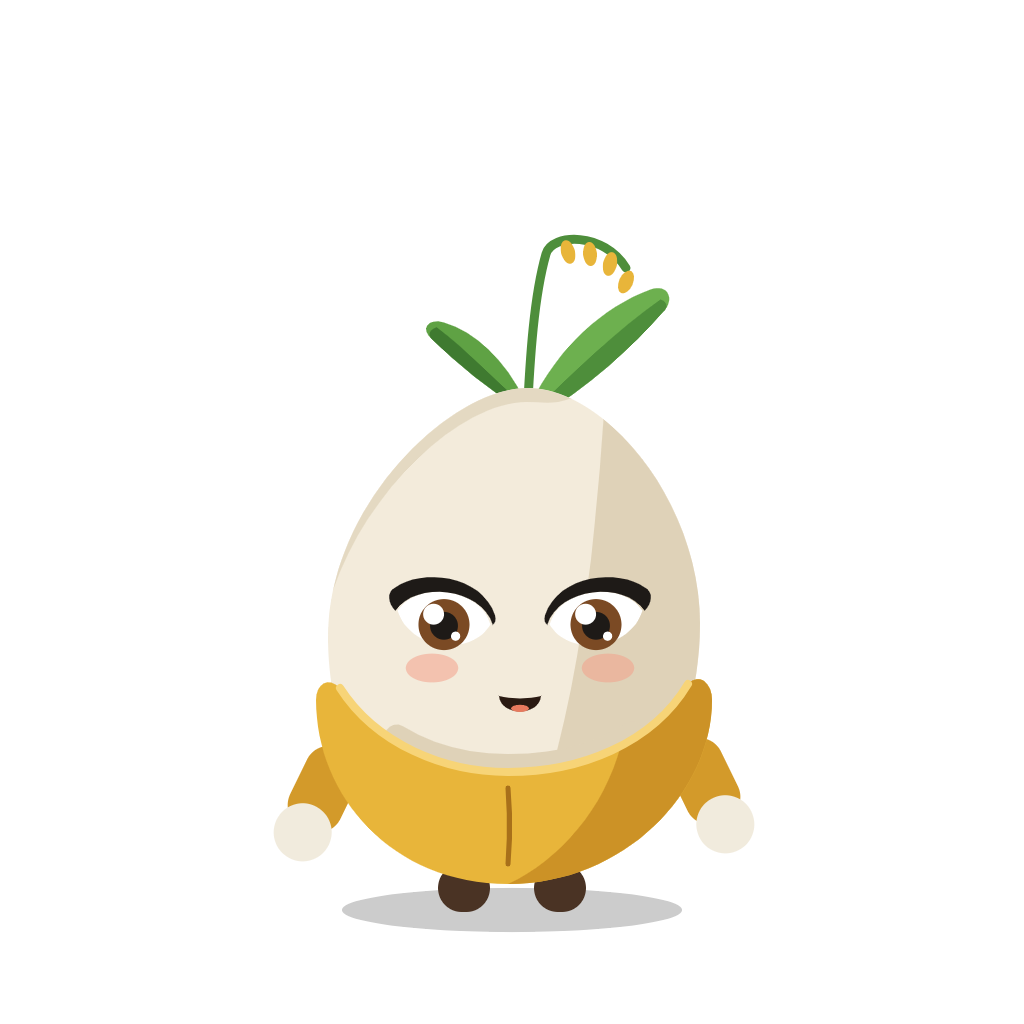
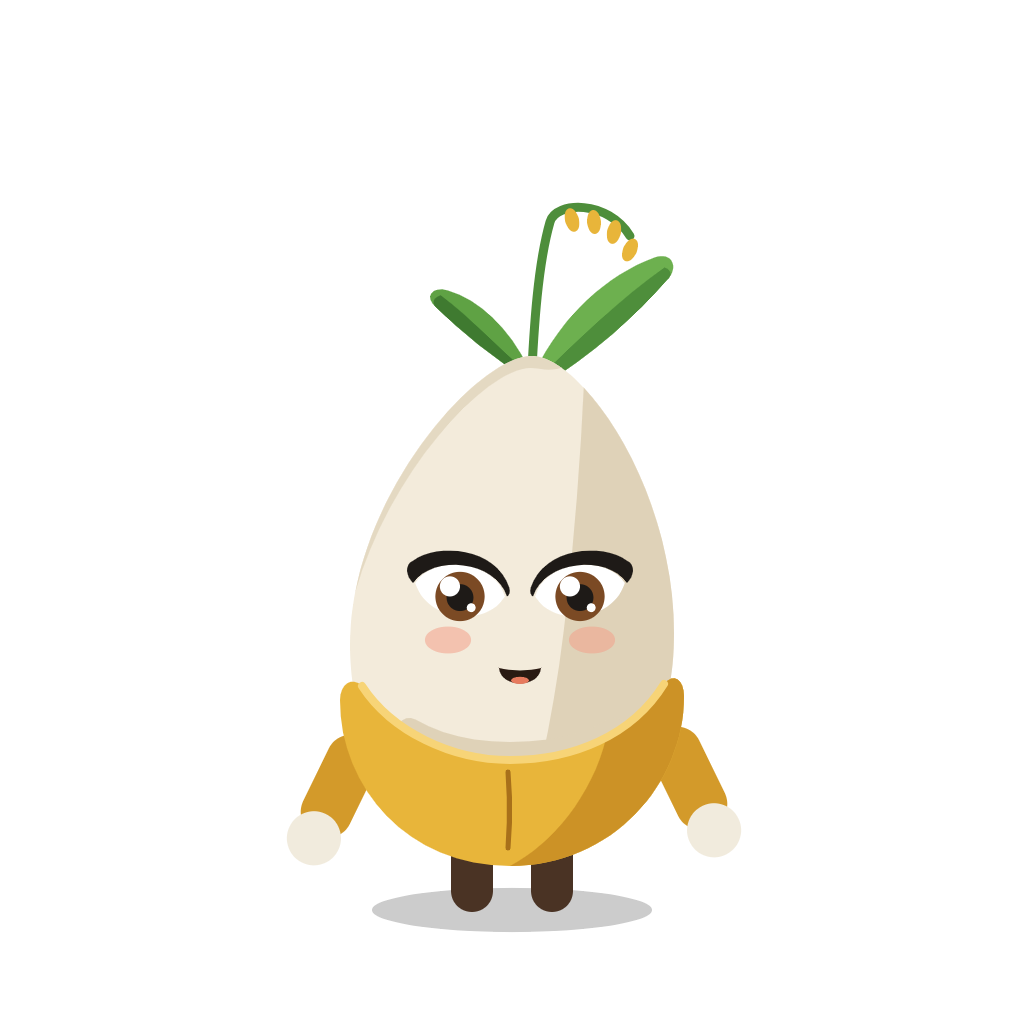
feat(mascot): Hom Thong v5 — slimmer, tapered grain silhouette
Grain ratio 1.30 -> 1.54:1 with a clearer taper to the tip, narrower husk
torso, longer slimmer legs and arms (wave/success lift above the shoulder).
Face layout rescaled for the narrower head; smooth edges and flat style
kept. Runtime API unchanged; full state machine sim passes.

Changed region(s): [[0.25, 0.1875, 0.75, 0.9062], [0.5938, 0.875, 0.6875, 0.9062], [0.3125, 0.875, 0.4062, 0.9062]]

diff --git a/handoff/mascot-homthong.md b/handoff/mascot-homthong.md
@@ -3,14 +3,15 @@
 ตัวการ์ตูนเมล็ดข้าวหอมมะลิของ AMC — สหกรณ์การเกษตรเพื่อการตลาดลูกค้า ธ.ก.ส. สุรินทร์
 ใช้ในแอป HR: onboarding, empty state, loading, success
 
-**Concept:** หัว/ตัวคือเมล็ดข้าวสารสีงาช้างทรงอวบ สวม "เปลือกข้าวสีทอง" เป็นเสื้อตัวสั้น
+**Concept:** หัว/ตัวคือเมล็ดข้าวสารสีงาช้างทรงเรียว สวม "เปลือกข้าวสีทอง" เป็นเสื้อตัวสั้น
 บนหัวมีใบข้าว 2 ใบ + รวงเล็ก บุคลิกใจดี ขยัน
 
-**สไตล์ v4 (modern flat, chibi):** ทำตาม skill `rive-modern-flat-character` (`~/.claude/skills/rive-modern-flat-character/`)
-- **สัดส่วน:** เมล็ดสูง:กว้าง ≈ 1.30:1 (242×186) ยอดแหลมนิด ๆ เอียงเล็กน้อย หัวเป็นก้อนใหญ่ เสื้อเปลือกคลุมแค่ ~1/4 ล่าง
-  แขนสั้นปลายมือกลม ขาเป็นปุ่มเล็ก
-- **หน้า:** ตาอยู่กลางส่วนขาว ใหญ่ขึ้น ห่างกันขึ้น ประกายใหญ่ 1 + เล็ก 1 (ซ้ายบนเหมือนกันทั้งสองข้าง)
+**สไตล์ v5 (modern flat, chibi เรียว):** ทำตาม skill `rive-modern-flat-character` (`~/.claude/skills/rive-modern-flat-character/`)
+- **สัดส่วน:** เมล็ดสูง:กว้าง ≈ 1.54:1 (250×162) เรียวสอบขึ้นไปทางยอดแบบเมล็ดข้าว (อยู่ระหว่าง v3 ที่ยาวแคบไปกับ v4 ที่กลมไป)
+  เสื้อเปลือกช่วงลำตัวแคบลงตามทรง ขาเรียวยาวขึ้น แขนยาวขึ้นแต่ยังปลายมน
+- **หน้า:** ย่อ layout ให้พอดีหัวที่แคบลง ตาโต ห่างกัน อยู่ใกล้กลางส่วนขาว ไม่ชิดขอบ ประกายใหญ่ 1 + เล็ก 1
   ขนตาเป็นลิ่มมน ปากยิ้มเล็ก แก้มเป็นวงรีอยู่ใต้ตา
+- **ท่า:** แขนยาวขึ้นแล้ว `wave` กับ `success` เลยยกมือได้สูงกว่าไหล่
 - **ไม่มีรอยหยัก:** ขอบเปลือกเป็นโค้ง U นุ่มเส้นเดียว มุมเปลือกเป็นมุมมนทั้งหมด ใบข้าวปลายมน
   เส้นในเปลือกเหลือแค่ตะเข็บกลางเส้นเดียว
 - **ไม่มีเส้นขอบ:** ใช้ flat fill ทุกชิ้น ไม่มี gradient, เงา cel ขอบแข็งชิ้นเดียวต่อก้อน (ระนาบขวาบนหัว, ก้อนขวาล่างบนเปลือก, ใบสองโทน)
@@ -20,13 +21,13 @@
   เมล็ดในรวงแกว่งเบา ๆ เป็น follow-through (group `Panicle`)
 - **Accent:** ประกาย 2 ดวงใน `success`, เครื่องหมาย "?" สีทองใน `search` (ตัวเอียงซ้าย-ขวา 6° พร้อมมองซ้าย-ขวา มือแตะแก้ม)
 
-API ของ runtime เหมือน v1–v3 ทุกอย่าง (artboard / state machine / view model / ชื่อ animation) โค้ดฝั่งแอปไม่ต้องแก้
+API ของ runtime เหมือน v1–v4 ทุกอย่าง (artboard / state machine / view model / ชื่อ animation) โค้ดฝั่งแอปไม่ต้องแก้
 
 ## ไฟล์
 
 | ไฟล์ | ใช้ทำอะไร |
 |---|---|
-| `public/mascot/homthong.riv` | runtime file (11.4 KB, export จากบัญชี Rive Pro ไม่มี splash/ลายน้ำ) |
+| `public/mascot/homthong.riv` | runtime file (11.0 KB, export จากบัญชี Rive Pro ไม่มี splash/ลายน้ำ) |
 | `public/mascot/homthong.png` | fallback ภาพนิ่งท่า idle, 1024×1024, พื้นใส |
 | `public/mascot/homthong.svg` | fallback แบบเวกเตอร์ท่า idle (สร้างจาก geometry เดียวกัน), viewBox 512×512 |
 
@@ -157,7 +158,7 @@ export default function HomThong({ mood = 0, size = 160, className = "" }) {
 ## ข้อจำกัด / สิ่งที่ต้องตัดสินใจ
 
 1. **Splash "RIVE" แก้แล้ว**: v1 ที่ export จาก plan ฟรีมีจอดำโลโก้ RIVE ~3 วินาที
-   v2–v4 export จากบัญชี Pro แล้วทดสอบใน browser (`@rive-app/webgl2@2.44.2`) ตัวละครขึ้นตั้งแต่เฟรมแรก ไม่มี splash/ลายน้ำ
-2. แขนสั้นแบบ chibi และอยู่หลังเสื้อเปลือก เลยยกได้แค่ระดับไหล่ ท่าโบกมือ/ชูแขนจึงเห็นมือแค่ข้างหัว ไม่ได้ชูสูงเหนือหัว
+   v2–v5 export จากบัญชี Pro แล้วทดสอบใน browser (`@rive-app/webgl2@2.44.2`) ตัวละครขึ้นตั้งแต่เฟรมแรก ไม่มี splash/ลายน้ำ
+2. แขนอยู่หลังเสื้อเปลือก ท่า `wave` / `success` ยกมือได้เหนือไหล่ราว 40px แต่ยังไม่สูงเหนือหัว
 3. สไตล์ flat ไม่มีเส้นขอบ บนพื้นขาวล้วนขอบหัวด้านซ้ายบนยังอ่อน แม้มีแถบ rim ช่วย ถ้าวางบนการ์ดสีหรือพื้นเทาอ่อนจะเด่นที่สุด
 4. ยังไม่มี eye-follow (`look`) และ listener hover/tap — brief ไม่ได้ขอ
